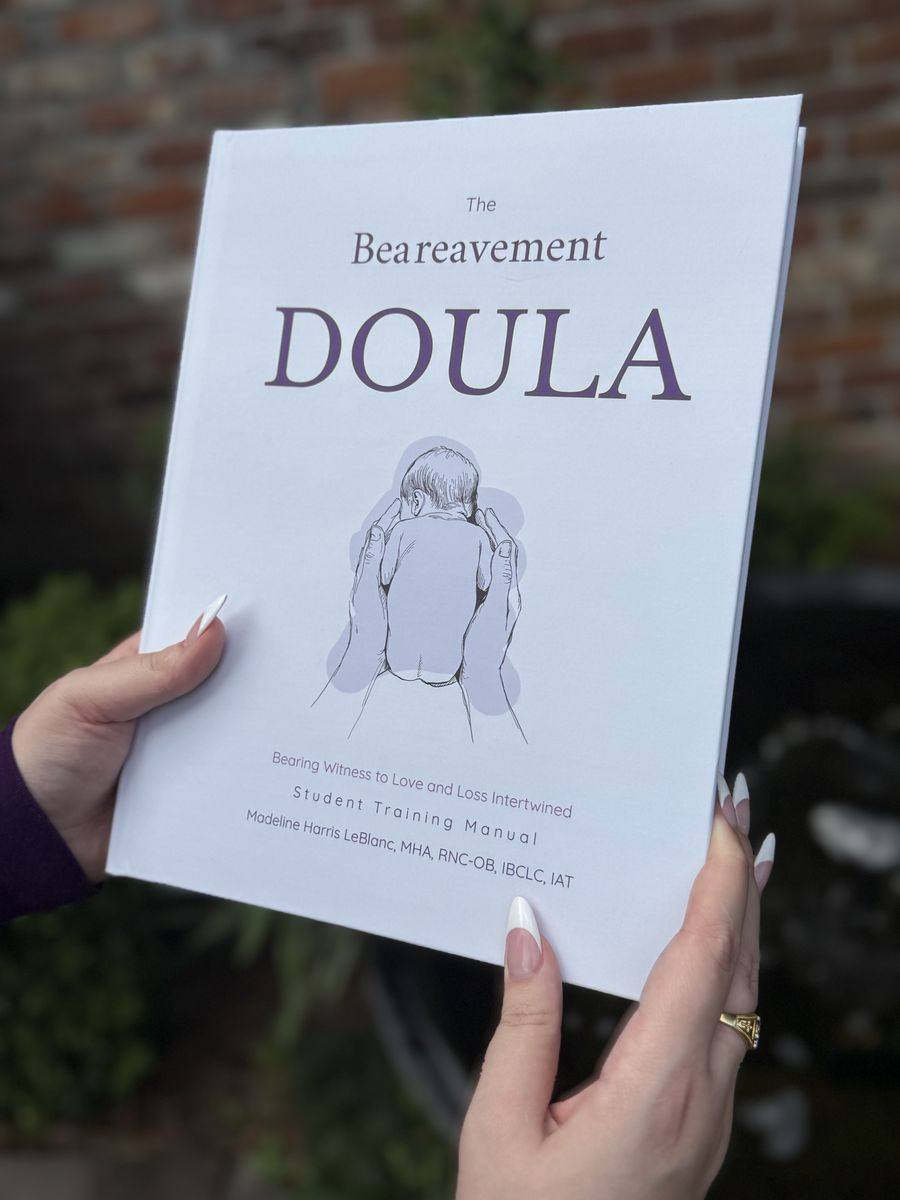
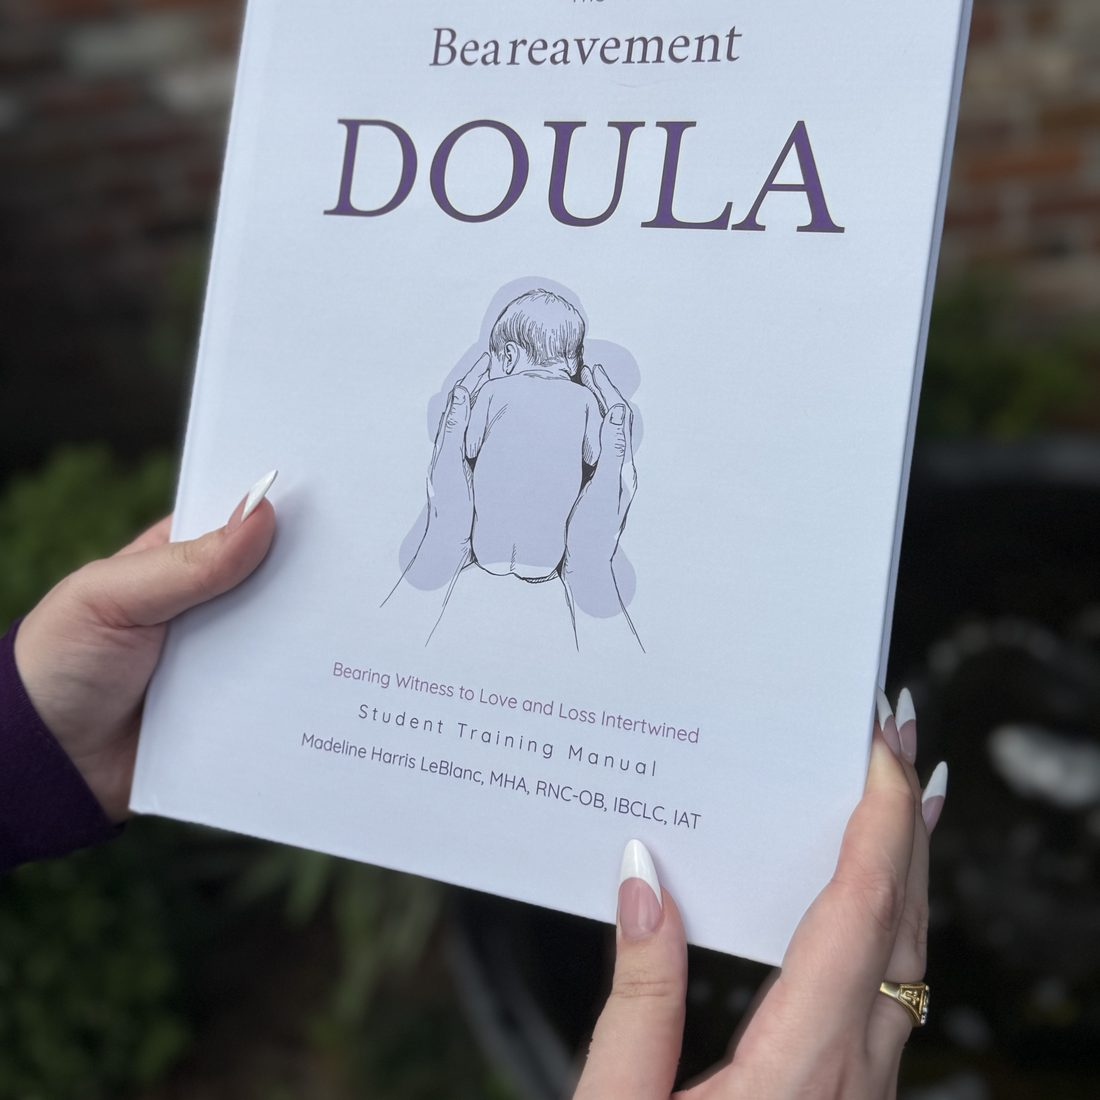
Bereavement photos: tight 1:1 square crops to match other cards; trim repeated author attribution
- bereavement-1 through 4 re-cropped to 1100x1100 squares centered on the book, so the bereavement card photo subject is the same visual size as Pocket Doula, Everything Guide, and Data-Driven Doula
- Drop the repeated 'Madeline Harris LeBlanc / LeBlanc Health Training, LLC' attribution from all 4 product descriptions; the author is shown at PayPal checkout and on the actual product
- Reframe Bereavement Bundle and Data-Driven Doula descriptions around 'Course materials for Mary's Hands Network's ICEA-approved [program]' so visitors see the MHN/ICEA stamp instead

diff --git a/store.html b/store.html
@@ -290,7 +290,7 @@
       <div class="body">
         <h3>The Pocket Doula</h3>
         <p class="price">$40 <span style="font-size:13px;color:var(--mhn-ink-mute);font-weight:400;font-family:var(--mhn-font-sans);font-style:italic;letter-spacing:0">+ tax · free shipping</span></p>
-        <p class="desc">50 illustrated cards for support and comfort during birth. Comfort measures, labor positions, and quick-reference cues, Music &amp; Sound, Walking, Lunges, Hands &amp; Knees, Warmth, Privacy, and more, packed into a slim purple tin built to slip into a doula bag. © LeBlanc Health Training, LLC.</p>
+        <p class="desc">50 illustrated cards for support and comfort during birth. Comfort measures, labor positions, and quick-reference cues, Music &amp; Sound, Walking, Lunges, Hands &amp; Knees, Warmth, Privacy, and more, packed into a slim purple tin built to slip into a doula bag.</p>
         <div class="qty-cart-group">
           <div class="qty-stepper">
             <button class="qty-btn qty-minus" type="button" aria-label="Decrease quantity">&minus;</button>
@@ -329,7 +329,7 @@
       <div class="body">
         <h3>Bereavement Doula Bundle</h3>
         <p class="price">$50 <span style="font-size:13px;color:var(--mhn-ink-mute);font-weight:400;font-family:var(--mhn-font-sans);font-style:italic;letter-spacing:0">textbook + workbook</span></p>
-        <p class="desc">For doulas, nurses, and birth workers who want to bear witness to families through pregnancy and infant loss. The hardcover student training manual paired with the reflective workbook, by Madeline Harris LeBlanc, MHA, RNC-OB, IBCLC, IAT.</p>
+        <p class="desc">Course materials for Mary's Hands Network's ICEA-approved Bereavement Doula training. The hardcover student training manual paired with the reflective workbook, for doulas, nurses, and birth workers who want to bear witness to families through pregnancy and infant loss.</p>
         <div class="qty-cart-group">
           <div class="qty-stepper">
             <button class="qty-btn qty-minus" type="button" aria-label="Decrease quantity">&minus;</button>
@@ -351,7 +351,7 @@
       <div class="body">
         <h3>The Everything Guide</h3>
         <p class="price">$50 <span style="font-size:13px;color:var(--mhn-ink-mute);font-weight:400;font-family:var(--mhn-font-sans);font-style:italic;letter-spacing:0">to Pregnancy, Childbirth and Postpartum</span></p>
-        <p class="desc">Madeline Harris LeBlanc's parent-facing guide to the whole journey, from early pregnancy through the postpartum weeks. The book MHN doulas reach for first when families want to read alongside their care.</p>
+        <p class="desc">A parent-facing guide to the whole journey, from early pregnancy through the postpartum weeks. The book MHN doulas reach for first when families want to read alongside their care.</p>
         <div class="qty-cart-group">
           <div class="qty-stepper">
             <button class="qty-btn qty-minus" type="button" aria-label="Decrease quantity">&minus;</button>
@@ -371,7 +371,7 @@
       <div class="body">
         <h3>The Data-Driven Doula</h3>
         <p class="price">$120 <span style="font-size:13px;color:var(--mhn-ink-mute);font-weight:400;font-family:var(--mhn-font-sans);font-style:italic;letter-spacing:0">5 units, 21 chapters</span></p>
-        <p class="desc">The complete doula training course materials used in Mary's Hands Network's ICEA-approved program. Five units, twenty-one chapters of evidence-based curriculum: physiology of birth, comfort measures, scope of practice, postpartum mental health, and outcomes data, written by Madeline Harris LeBlanc.</p>
+        <p class="desc">Course materials for Mary's Hands Network's ICEA-approved doula training. Five units, twenty-one chapters of evidence-based curriculum: physiology of birth, comfort measures, scope of practice, postpartum mental health, and outcomes data.</p>
         <span class="buy" aria-disabled="true" style="opacity:0.85;cursor:not-allowed;pointer-events:none">Coming soon</span>
       </div>
     </div>
